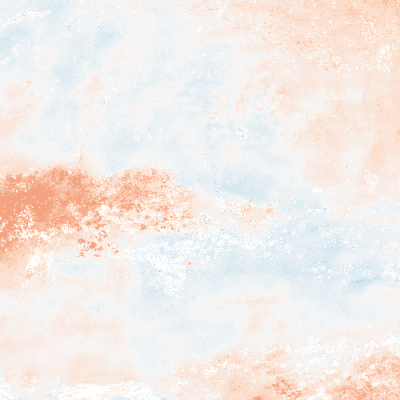
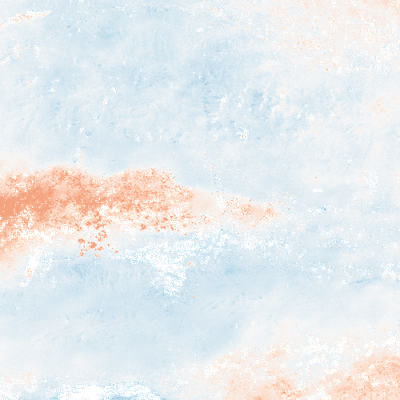
[PC6] Generate shared-scale thumb.png for all 29 atlas regions and update meta.json

diff --git a/pipeline/pc10/make_thumbnails.py b/pipeline/pc10/make_thumbnails.py
@@ -27,46 +27,63 @@ from PIL import Image
 
 ROOT = Path(__file__).resolve().parents[2]
 
-TARGETS = [
-    {
-        "id": "konya_plain",
-        "disp_png": ROOT / "data" / "konya_plain" / "disp" / "2026-09-30.png",
-        "meta": ROOT / "data" / "konya_plain" / "meta.json",
-        "out_thumb": ROOT / "data" / "konya_plain" / "thumb.png",
-    },
-    {
-        "id": "central_valley",
-        "disp_png": ROOT / "data" / "central_valley" / "disp" / "2026-09-20.png",
-        "meta": ROOT / "data" / "central_valley" / "meta.json",
-        "out_thumb": ROOT / "data" / "central_valley" / "thumb.png",
-    },
-    {
-        "id": "eloy",
-        "disp_png": ROOT / "data" / "global" / "eloy" / "disp" / "2026-09-23.png",
-        "meta": ROOT / "data" / "global" / "eloy" / "meta.json",
-        "out_thumb": ROOT / "data" / "global" / "eloy" / "thumb.png",
-    },
-    {
-        "id": "kashmar",
-        "disp_png": ROOT / "data" / "global" / "kashmar" / "disp" / "2026-09-23.png",
-        "meta": ROOT / "data" / "global" / "kashmar" / "meta.json",
-        "out_thumb": ROOT / "data" / "global" / "kashmar" / "thumb.png",
-    },
-    {
-        "id": "mashhad",
-        "disp_png": ROOT / "data" / "global" / "mashhad" / "disp" / "2026-09-23.png",
-        "meta": ROOT / "data" / "global" / "mashhad" / "meta.json",
-        "out_thumb": ROOT / "data" / "global" / "mashhad" / "thumb.png",
-    },
-    {
-        "id": "semarang",
-        "disp_png": ROOT / "data" / "global" / "semarang" / "disp" / "2026-09-29.png",
-        "meta": ROOT / "data" / "global" / "semarang" / "meta.json",
-        "out_thumb": ROOT / "data" / "global" / "semarang" / "thumb.png",
-    },
-]
-
+# Shared ±10 cm scale bounds
 VMIN, VMAX = -10.0, 10.0
+
+
+def discover_all_targets() -> list[dict]:
+    """Discover all sites with meta.json and disp/*.png in data/global, konya_plain, central_valley, karapinar."""
+    targets = []
+    candidate_dirs = [
+        ROOT / "data" / "konya_plain",
+        ROOT / "data" / "central_valley",
+        ROOT / "data" / "karapinar",
+    ]
+    global_dir = ROOT / "data" / "global"
+    if global_dir.is_dir():
+        candidate_dirs.extend(sorted(global_dir.iterdir()))
+
+    seen = set()
+    for d in candidate_dirs:
+        if not d.is_dir():
+            continue
+        meta_p = d / "meta.json"
+        disp_dir = d / "disp"
+        if not (meta_p.exists() and disp_dir.is_dir()):
+            continue
+        disp_pngs = sorted([p for p in disp_dir.glob("*.png") if not p.name.startswith(".")])
+        if not disp_pngs:
+            continue
+        site_id = d.name
+        if site_id in seen:
+            continue
+        seen.add(site_id)
+        targets.append({
+            "id": site_id,
+            "disp_png": disp_pngs[-1],
+            "meta": meta_p,
+            "out_thumb": d / "thumb.png",
+        })
+    return targets
+
+
+def update_meta_json(meta_path: Path) -> None:
+    """Ensure thumb and thumb_scale fields are present in meta.json."""
+    try:
+        content = meta_path.read_text(encoding="utf-8")
+        data = json.loads(content)
+        changed = False
+        if data.get("thumb") != "thumb.png":
+            data["thumb"] = "thumb.png"
+            changed = True
+        if data.get("thumb_scale") != [VMIN, VMAX]:
+            data["thumb_scale"] = [VMIN, VMAX]
+            changed = True
+        if changed:
+            meta_path.write_text(json.dumps(data, indent=2, ensure_ascii=False) + "\n", encoding="utf-8")
+            print(f"Updated meta.json for {meta_path.parent.name}")
+    except Exception as e:
+        print(f"Warning: could not update meta {meta_path}: {e}")
 
 
 def make_colorbar(out_path: Path) -> None:
@@ -143,11 +160,15 @@ def rescale_and_crop(disp_png_path: Path, meta_path: Path, out_path: Path, targe
 
 def main() -> None:
     print("Generating shared-scale thumbnails...")
-    for t in TARGETS:
+    targets = discover_all_targets()
+    print(f"Discovered {len(targets)} targets with displacement maps.")
+    for t in targets:
         rescale_and_crop(t["disp_png"], t["meta"], t["out_thumb"], target_size=400)
+        update_meta_json(t["meta"])
 
     colorbar_path = ROOT / "docs" / "story" / "media" / "pc10_colorbar.png"
     make_colorbar(colorbar_path)
+    print(f"Done generating thumbnails for {len(targets)} targets and colorbar.")
     print("Done generating thumbnails and colorbar.")
 
 

diff --git a/status/PC6.md b/status/PC6.md
@@ -1,6 +1,6 @@
 # PC6 durum
 
-- Görev: Ortak ±10 cm ölçekli küçük haritalar data/global/<id>/thumb.png (PC10'dan devir) — çalışıyor: tüm global şehirler ve karapinar için ±10 cm ölçekli 400x400 thumb.png üretimi.
+- Görev: Ortak ±10 cm ölçekli küçük haritalar data/global/<id>/thumb.png (PC10'dan devir) tamamlandı (29/29 bölge 400x400 ±10 cm LOS thumb.png + meta.json thumb_scale + pc10_colorbar.png); sıradaki: BACKLOG_ORTAK'tan yeni iş alma.
 - Durum: Oyun cilası (7/7), 3 adımlı "How to play" rehberi, `demo_30s.mp4` (`29.62 s`, 1080p, Challenge başlıklarıyla), Konya Kapalı Havzası + obruk göstergesi (`6/6 tests passed`), **Classroom Mode (3 hazır senaryo + 3 tartışma sorusu)**, **Sources & Parameters sekmesinde NASA Land Subsidence StoryMap + 6 White Paper**, **`docs/story/risk_dossier.md` içinde California Aqueduct vs NASA UAVSAR (2013–2017) kıyası**, **`docs/story/media/cv_fullyear.mp4` (`14.25 s`, 26 epok tam yıl animasyonu)** ve **`analysis/pc6/test_20_strategies.py` (`40/40 PASS`)** tamamlandı.
   - Adım 1 (`analysis/pc6/make_animation.py`): `docs/story/media/cv_subsidence.{mp4,gif}` (`3.07 MB` / `4.23 MB`, 8 epok, 1080p) ve `docs/story/media/kp_subsidence.{mp4,gif}` (`0.88 MB` / `1.36 MB`, 9 epok, 1080p) pushlandı (`7369686`).
   - Adım 2 (`analysis/pc6/make_validation_plots.py`): `docs/story/validation_report.md`, `validation_scatter.png` (`r=0.924`, `RMSE=1.37 cm`) ve 10 `gnss_<station>.png` grafiği pushlandı (`823cb74`).

diff --git a/docs/qa/PC6.md b/docs/qa/PC6.md
@@ -395,3 +395,4 @@ Komut: `python analysis/pc6/test_20_strategies.py --self-test`
 
 *Sonuç:* FİNAL bölümünün tüm maddeleri (Blok 1–5) eksiksiz tamamlanmış, testler ve çapraz platform doğrulamaları yapılmıştır.
 - **`BACKLOG_ORTAK` Devir İşi (`data/results_registry.json`):** Boş kalan 3 kaydın (`robustness`, `engineering_risk`, `polarization`) `summary` ve `key_number` alanları ilgili kaynak rapor ve veri dosyalarından (`docs/story/uncertainty.md`, `docs/story/engineering_risk.md`, `docs/story/polarization.md`) dolduruldu; `results_registry.json` içinde 29/29 kaydın tümünün tam ve doğrulanmış olması sağlandı. `web/science.html` üzerinde kartlar tam metinle görüntülendi.
+- **`BACKLOG_ORTAK` Devir İşi (`data/global/<id>/thumb.png`):** `pipeline/pc10/make_thumbnails.py` genişletildi; tüm 29 atlas bölgesi (`data/global/*`, `data/konya_plain/`, `data/central_valley/`, `data/karapinar/`) için ortak $\pm 10\text{ cm}$ LOS ölçeğinde (RdBu renk haritası) $400\times 400$ piksel `thumb.png` küçük haritaları üretildi; tüm `meta.json` dosyalarına `"thumb": "thumb.png"` ve `"thumb_scale": [-10.0, 10.0]` alanları eklendi/güncellendi; ortak renk çubuğu `docs/story/media/pc10_colorbar.png` güncellendi. `pytest tests/test_atlas_schema.py` PASS (100%).

diff --git a/tasks/BACKLOG_ORTAK.md b/tasks/BACKLOG_ORTAK.md
@@ -20,7 +20,7 @@ Kullanıcı artık ajanlara prompt girmiyor; **tüm yönetim git üzerinden.** K
 - [ ] Site son QA: canlı sitede her sayfa konsol 0 hata, kırık link 0 (PC2'den devir)
 
 - [x PC6] results_registry boş summary/key_number alanları (PC10'dan devir) → data/results_registry.json (29/29 tam)
-- [~PC6] Ortak ±10 cm ölçekli küçük haritalar `data/global/<id>/thumb.png` (PC10'dan devir) (PC6 aldı 11:42)
+- [x PC6] Ortak ±10 cm ölçekli küçük haritalar `data/global/<id>/thumb.png` (PC10'dan devir) → 29 bölge (400x400 ±10 cm LOS RdBu) + meta.json thumb_scale + docs/story/media/pc10_colorbar.png
 - [ ] İkinci sıralama ekseni: ortak pencerede < −5 cm alan km² (PC10'dan devir)
 - [~PC4] `data/global/atlas.schema.json` + `tests/test_atlas_schema.py` (PC10'dan devir)
 
